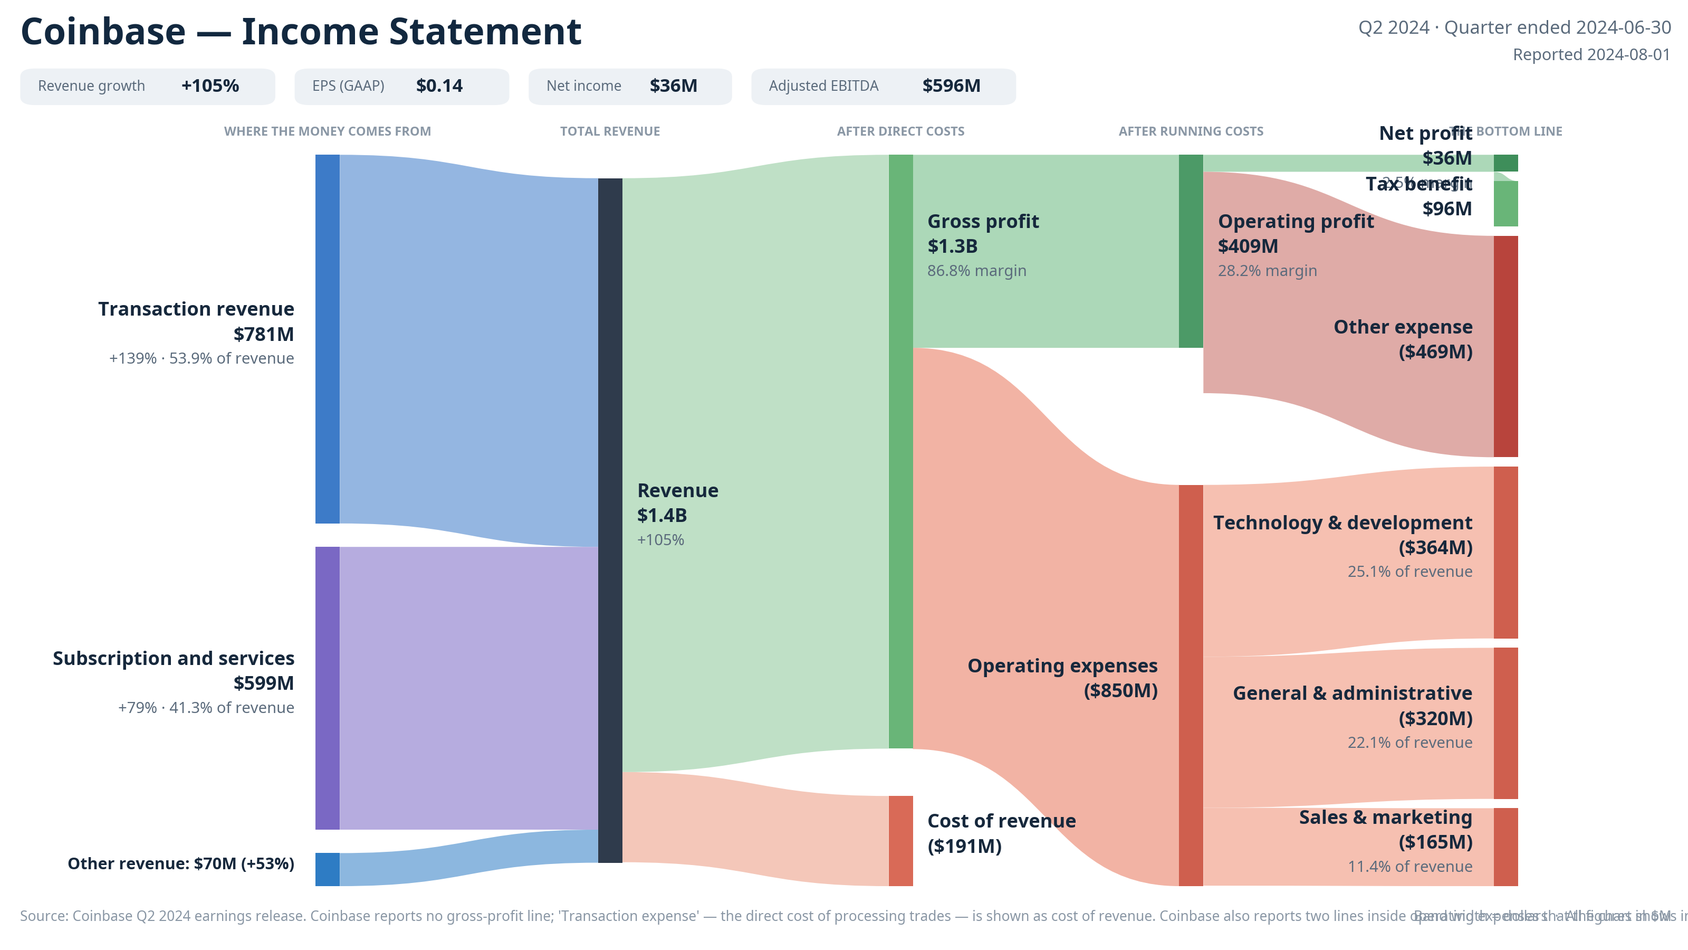
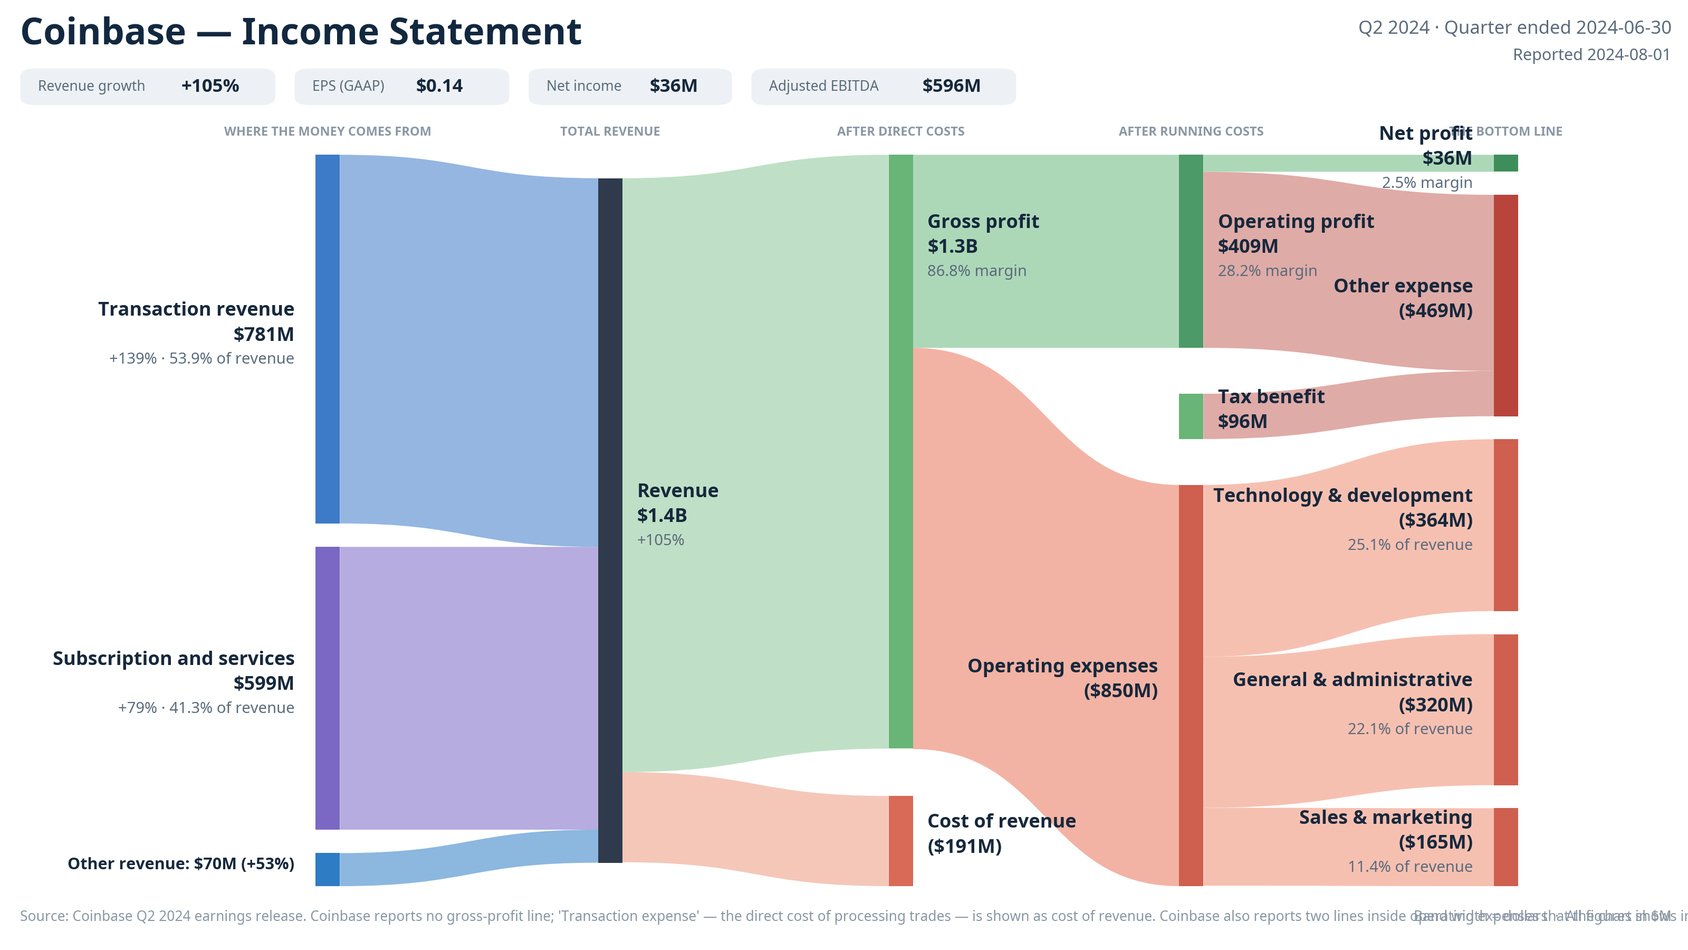
Manual chart repairs: COIN 2024-q2 conserving topology, CORZ 2026-q3 orphan tax node removed
COIN 2024-q2: tax benefit is now a col-3 source that, together with
operating profit, covers the other expense (taxben->otherexp 0.096,
op->otherexp 0.373, op->net 0.036). Net inflows now equal net value
0.036 exactly; canonical builder emitted a negative op->net band for
this shape. chart.png regenerated from the same model.
CORZ 2026-q3: removed the orphan tax node (value -0.107, no links)
and its cols entry; links and conservation unchanged, tax benefit
still represented by its col-3 source node. chart.png regenerated
from the page's existing opex-credit model.
data.json files unchanged.

Changed region(s): [[0.6875, 0.28, 0.9062, 0.84], [0.75, 0.1867, 0.9062, 0.2489], [0.7812, 0.84, 0.8125, 0.8711]]

diff --git a/docs/earnings/corz/2026-q3/index.html b/docs/earnings/corz/2026-q3/index.html
@@ -154,7 +154,7 @@
   </footer>
 </div>
 </div>
-<script>window.REPORT = {"revenueB":1.267,"nodes":{"seg0":{"name":"Colocation revenue","amt":"$215M","value":0.215,"col":0,"color":"#3D7BC8","note":"+1,341% \u00b7 17% of revenue","plain":"Renting high-density data center space to AI customers \u2014 now 93% of revenue. Up from $15.0M a year ago as billing megawatts reached 485 MW.","quarter":"17% of all revenue this quarter."},"seg1":{"name":"Digital asset self-mining","amt":"$12M","value":0.012,"col":0,"color":"#7A68C4","note":"-79% \u00b7 1% of revenue","plain":"Mining Bitcoin for its own account at its remaining mining sites. Down 79% YoY as sites convert to colocation.","quarter":"1% of all revenue this quarter.","compact":true,"compactLabel":"Digital asset self-mining: $12M (-79%)"},"seg2":{"name":"Digital asset hosted mining","amt":"$5M","value":0.005,"col":0,"color":"#2E7CC4","note":"-41% \u00b7 0.4% of revenue","plain":"Hosting other miners' machines. Down 41% YoY.","quarter":"0.4% of all revenue this quarter.","compact":true,"compactLabel":"Digital asset hosted mining: $5M (-41%)"},"seg3":{"name":"Warrant fair-value gain","amt":"$1.0B","value":1.034,"col":0,"color":"#76B900","note":"non-cash \u00b7 81.6% of revenue","plain":"A paper gain: Core Scientific's warrant liabilities fell in value as its share price moved, so accounting rules book a gain. No cash arrived, and it reverses if the share price rises. Shown as a source because it dwarfs everything else this quarter.","quarter":"81.6% of all revenue this quarter."},"rev":{"name":"Revenue","amt":"$1.3B","value":1.267,"col":1,"color":"#2F3B4C","note":"+187%","plain":"All the money Core Scientific took in during the three months \u2014 the top line everything else is carved out of.","quarter":"$1.3B, +187% vs a year ago."},"gross":{"name":"Gross profit","amt":"$1.2B","value":1.158,"col":2,"color":"#69B578","note":"91.4% margin","plain":"What's left after paying the direct cost of delivering what was sold.","quarter":"91.4 cents of every revenue dollar survived this step."},"cost":{"name":"Cost of revenue","amt":"($110M)","value":0.11,"col":2,"color":"#D96A57","note":"","plain":"The direct bill for making and delivering what was sold.","quarter":"$110M \u2014 about 8.6 cents per revenue dollar."},"oxcredit0":{"name":"Gain on fair value of digital assets","amt":"$19M","value":0.019,"col":3,"color":"#69B578","note":"","plain":"A gain as the digital assets Core Scientific holds rose in value \u2014 it reduced operating expenses on paper.","quarter":"$19M credited back \u2014 it reduced operating expenses.","compact":true,"compactLabel":"Gain on fair value of digital assets: $19M credit"},"taxben":{"name":"Tax benefit","amt":"$107M","value":0.107,"col":3,"color":"#69B578","note":"","plain":"The tax line was a benefit this quarter \u2014 it added to the bottom line instead of reducing it.","quarter":"$107M added back by the tax benefit."},"op":{"name":"Operating profit","amt":"$1.1B","value":1.072,"col":3,"color":"#4C9A67","note":"84.6% margin","plain":"What the core business earned after all running costs, before tax and other income.","quarter":"A 84.6% margin."},"opex":{"name":"Operating expenses","amt":"($86M)","value":0.105,"col":3,"color":"#CF5F4E","note":"","plain":"The cost of running and growing the company: research, selling, and the back office.","quarter":"$86M total, split into Selling, general & administrative, Interest & other expense, net, Colocation startup costs, Disposal, remeasurement & advisor costs on the right."},"ox0":{"name":"Selling, general & administrative","amt":"($46M)","value":0.046,"col":4,"color":"#CF5F4E","note":"3.6% of revenue","plain":"Running the company \u2014 the biggest ordinary running cost.","quarter":"$46M \u2014 3.6% of revenue."},"ox1":{"name":"Interest & other expense, net","amt":"($35M)","value":0.035,"col":4,"color":"#CF5F4E","note":"2.8% of revenue","plain":"Interest expense, net, of $35.0M plus $0.04M of other expense. Core Scientific reports this below its operating result; in this adapted layout it is grouped with operating expenses so the operating line equals reported pre-tax income.","quarter":"$35M \u2014 2.8% of revenue."},"ox2":{"name":"Colocation startup costs","amt":"($13M)","value":0.013,"col":4,"color":"#CF5F4E","note":"1% of revenue","plain":"Organizing and starting up new colocation sites as they are built and converted.","quarter":"$13M \u2014 1% of revenue.","compact":true,"compactLabel":"Colocation startup costs: $13M (1% of revenue)"},"ox3":{"name":"Disposal, remeasurement & advisor costs","amt":"($12M)","value":0.012,"col":4,"color":"#CF5F4E","note":"0.9% of revenue","plain":"A $5.3M loss on disposing of equipment, a $1.5M write-down of assets held for sale, and $4.8M of advisor fees, including merger-related advice.","quarter":"$12M \u2014 0.9% of revenue.","compact":true,"compactLabel":"Disposal, remeasurement & advisor costs: $12M (0.9% of revenue)"},"net":{"name":"Net profit","amt":"$1.2B","value":1.178,"col":4,"color":"#3E8E5A","note":"93% margin","plain":"The bottom line \u2014 what Core Scientific actually earned after everything.","quarter":"$1.2B \u2014 about 93 cents of every revenue dollar."},"tax":{"name":"Tax","amt":"$107M","value":-0.107,"col":4,"color":"#B8443C","note":"","plain":"Income tax on the quarter's profit.","quarter":"($107M) \u2014 roughly a -9.9% tax rate on pre-tax profit."}},"cols":[["seg0","seg1","seg2","seg3"],["rev"],["gross","cost"],["oxcredit0","taxben","op","opex"],["net","tax","ox0","ox1","ox2","ox3"]],"links":[{"s":"seg0","d":"rev","v":0.215,"c":"#94b6e1","amt":"$215M"},{"s":"seg1","d":"rev","v":0.012,"c":"#b6acdf","amt":"$12M"},{"s":"seg2","d":"rev","v":0.005,"c":"#8cb7df","amt":"$5M"},{"s":"seg3","d":"rev","v":1.034,"c":"#b4d873","amt":"$1.0B"},{"s":"rev","d":"gross","v":1.158,"c":"#BFE0C6","amt":"$1.2B"},{"s":"rev","d":"cost","v":0.11,"c":"#F4C7B9","amt":"$110M"},{"s":"gross","d":"op","v":1.072,"c":"#ACD8B8","amt":"$1.1B"},{"s":"gross","d":"opex","v":0.086,"c":"#F2B3A4","amt":"$86M"},{"s":"op","d":"net","v":1.072,"c":"#ACD8B8","amt":"$1.1B"},{"s":"taxben","d":"net","v":0.107,"c":"#ACD8B8","amt":"$107M"},{"s":"oxcredit0","d":"opex","v":0.019,"c":"#ACD8B8","amt":"$19M"},{"s":"opex","d":"ox0","v":0.046,"c":"#F6C0B1","amt":"$46M"},{"s":"opex","d":"ox1","v":0.035,"c":"#F6C0B1","amt":"$35M"},{"s":"opex","d":"ox2","v":0.013,"c":"#F6C0B1","amt":"$13M"},{"s":"opex","d":"ox3","v":0.012,"c":"#F6C0B1","amt":"$12M"}],"captions":["WHERE THE MONEY COMES FROM","TOTAL REVENUE","AFTER DIRECT COSTS","AFTER RUNNING COSTS","THE BOTTOM LINE"]};</script>
+<script>window.REPORT = {"revenueB":1.267,"nodes":{"seg0":{"name":"Colocation revenue","amt":"$215M","value":0.215,"col":0,"color":"#3D7BC8","note":"+1,341% \u00b7 17% of revenue","plain":"Renting high-density data center space to AI customers \u2014 now 93% of revenue. Up from $15.0M a year ago as billing megawatts reached 485 MW.","quarter":"17% of all revenue this quarter."},"seg1":{"name":"Digital asset self-mining","amt":"$12M","value":0.012,"col":0,"color":"#7A68C4","note":"-79% \u00b7 1% of revenue","plain":"Mining Bitcoin for its own account at its remaining mining sites. Down 79% YoY as sites convert to colocation.","quarter":"1% of all revenue this quarter.","compact":true,"compactLabel":"Digital asset self-mining: $12M (-79%)"},"seg2":{"name":"Digital asset hosted mining","amt":"$5M","value":0.005,"col":0,"color":"#2E7CC4","note":"-41% \u00b7 0.4% of revenue","plain":"Hosting other miners' machines. Down 41% YoY.","quarter":"0.4% of all revenue this quarter.","compact":true,"compactLabel":"Digital asset hosted mining: $5M (-41%)"},"seg3":{"name":"Warrant fair-value gain","amt":"$1.0B","value":1.034,"col":0,"color":"#76B900","note":"non-cash \u00b7 81.6% of revenue","plain":"A paper gain: Core Scientific's warrant liabilities fell in value as its share price moved, so accounting rules book a gain. No cash arrived, and it reverses if the share price rises. Shown as a source because it dwarfs everything else this quarter.","quarter":"81.6% of all revenue this quarter."},"rev":{"name":"Revenue","amt":"$1.3B","value":1.267,"col":1,"color":"#2F3B4C","note":"+187%","plain":"All the money Core Scientific took in during the three months \u2014 the top line everything else is carved out of.","quarter":"$1.3B, +187% vs a year ago."},"gross":{"name":"Gross profit","amt":"$1.2B","value":1.158,"col":2,"color":"#69B578","note":"91.4% margin","plain":"What's left after paying the direct cost of delivering what was sold.","quarter":"91.4 cents of every revenue dollar survived this step."},"cost":{"name":"Cost of revenue","amt":"($110M)","value":0.11,"col":2,"color":"#D96A57","note":"","plain":"The direct bill for making and delivering what was sold.","quarter":"$110M \u2014 about 8.6 cents per revenue dollar."},"oxcredit0":{"name":"Gain on fair value of digital assets","amt":"$19M","value":0.019,"col":3,"color":"#69B578","note":"","plain":"A gain as the digital assets Core Scientific holds rose in value \u2014 it reduced operating expenses on paper.","quarter":"$19M credited back \u2014 it reduced operating expenses.","compact":true,"compactLabel":"Gain on fair value of digital assets: $19M credit"},"taxben":{"name":"Tax benefit","amt":"$107M","value":0.107,"col":3,"color":"#69B578","note":"","plain":"The tax line was a benefit this quarter \u2014 it added to the bottom line instead of reducing it.","quarter":"$107M added back by the tax benefit."},"op":{"name":"Operating profit","amt":"$1.1B","value":1.072,"col":3,"color":"#4C9A67","note":"84.6% margin","plain":"What the core business earned after all running costs, before tax and other income.","quarter":"A 84.6% margin."},"opex":{"name":"Operating expenses","amt":"($86M)","value":0.105,"col":3,"color":"#CF5F4E","note":"","plain":"The cost of running and growing the company: research, selling, and the back office.","quarter":"$86M total, split into Selling, general & administrative, Interest & other expense, net, Colocation startup costs, Disposal, remeasurement & advisor costs on the right."},"ox0":{"name":"Selling, general & administrative","amt":"($46M)","value":0.046,"col":4,"color":"#CF5F4E","note":"3.6% of revenue","plain":"Running the company \u2014 the biggest ordinary running cost.","quarter":"$46M \u2014 3.6% of revenue."},"ox1":{"name":"Interest & other expense, net","amt":"($35M)","value":0.035,"col":4,"color":"#CF5F4E","note":"2.8% of revenue","plain":"Interest expense, net, of $35.0M plus $0.04M of other expense. Core Scientific reports this below its operating result; in this adapted layout it is grouped with operating expenses so the operating line equals reported pre-tax income.","quarter":"$35M \u2014 2.8% of revenue."},"ox2":{"name":"Colocation startup costs","amt":"($13M)","value":0.013,"col":4,"color":"#CF5F4E","note":"1% of revenue","plain":"Organizing and starting up new colocation sites as they are built and converted.","quarter":"$13M \u2014 1% of revenue.","compact":true,"compactLabel":"Colocation startup costs: $13M (1% of revenue)"},"ox3":{"name":"Disposal, remeasurement & advisor costs","amt":"($12M)","value":0.012,"col":4,"color":"#CF5F4E","note":"0.9% of revenue","plain":"A $5.3M loss on disposing of equipment, a $1.5M write-down of assets held for sale, and $4.8M of advisor fees, including merger-related advice.","quarter":"$12M \u2014 0.9% of revenue.","compact":true,"compactLabel":"Disposal, remeasurement & advisor costs: $12M (0.9% of revenue)"},"net":{"name":"Net profit","amt":"$1.2B","value":1.178,"col":4,"color":"#3E8E5A","note":"93% margin","plain":"The bottom line \u2014 what Core Scientific actually earned after everything.","quarter":"$1.2B \u2014 about 93 cents of every revenue dollar."}},"cols":[["seg0","seg1","seg2","seg3"],["rev"],["gross","cost"],["oxcredit0","taxben","op","opex"],["net","ox0","ox1","ox2","ox3"]],"links":[{"s":"seg0","d":"rev","v":0.215,"c":"#94b6e1","amt":"$215M"},{"s":"seg1","d":"rev","v":0.012,"c":"#b6acdf","amt":"$12M"},{"s":"seg2","d":"rev","v":0.005,"c":"#8cb7df","amt":"$5M"},{"s":"seg3","d":"rev","v":1.034,"c":"#b4d873","amt":"$1.0B"},{"s":"rev","d":"gross","v":1.158,"c":"#BFE0C6","amt":"$1.2B"},{"s":"rev","d":"cost","v":0.11,"c":"#F4C7B9","amt":"$110M"},{"s":"gross","d":"op","v":1.072,"c":"#ACD8B8","amt":"$1.1B"},{"s":"gross","d":"opex","v":0.086,"c":"#F2B3A4","amt":"$86M"},{"s":"op","d":"net","v":1.072,"c":"#ACD8B8","amt":"$1.1B"},{"s":"taxben","d":"net","v":0.107,"c":"#ACD8B8","amt":"$107M"},{"s":"oxcredit0","d":"opex","v":0.019,"c":"#ACD8B8","amt":"$19M"},{"s":"opex","d":"ox0","v":0.046,"c":"#F6C0B1","amt":"$46M"},{"s":"opex","d":"ox1","v":0.035,"c":"#F6C0B1","amt":"$35M"},{"s":"opex","d":"ox2","v":0.013,"c":"#F6C0B1","amt":"$13M"},{"s":"opex","d":"ox3","v":0.012,"c":"#F6C0B1","amt":"$12M"}],"captions":["WHERE THE MONEY COMES FROM","TOTAL REVENUE","AFTER DIRECT COSTS","AFTER RUNNING COSTS","THE BOTTOM LINE"]};</script>
 <script src="../../../assets/chart.js"></script>
 </body>
 </html>

diff --git a/docs/earnings/coin/2024-q2/index.html b/docs/earnings/coin/2024-q2/index.html
@@ -211,7 +211,7 @@
   </footer>
 </div>
 </div>
-<script>window.REPORT = {"revenueB":1.45,"nodes":{"seg0":{"name":"Transaction revenue","amt":"$781M","value":0.781,"col":0,"color":"#3D7BC8","note":"+139% \u00b7 53.9% of revenue","plain":"Fees from crypto trading \u2014 consumer $665M, institutional $64M, other $53M. Trading volume was $226B, down 28% from Q1 as volatility eased, but revenue more than doubled from a year ago.","quarter":"53.9% of all revenue this quarter."},"seg1":{"name":"Subscription and services","amt":"$599M","value":0.599,"col":0,"color":"#7A68C4","note":"+79% \u00b7 41.3% of revenue","plain":"Steadier income: stablecoin revenue $240M, blockchain rewards $185M, interest and finance fees $69M, custodial fees $35M, and other services $70M.","quarter":"41.3% of all revenue this quarter."},"seg2":{"name":"Other revenue","amt":"$70M","value":0.07,"col":0,"color":"#2E7CC4","note":"+53% \u00b7 4.8% of revenue","plain":"Interest earned on Coinbase's own corporate cash.","quarter":"4.8% of all revenue this quarter.","compact":true,"compactLabel":"Other revenue: $70M (+53%)"},"rev":{"name":"Revenue","amt":"$1.4B","value":1.45,"col":1,"color":"#2F3B4C","note":"+105%","plain":"All the money Coinbase took in during the three months \u2014 the top line everything else is carved out of.","quarter":"$1.4B, +105% vs a year ago."},"gross":{"name":"Gross profit","amt":"$1.3B","value":1.258,"col":2,"color":"#69B578","note":"86.8% margin","plain":"What's left after paying the direct cost of delivering what was sold.","quarter":"86.8 cents of every revenue dollar survived this step."},"cost":{"name":"Cost of revenue","amt":"($191M)","value":0.191,"col":2,"color":"#D96A57","note":"","plain":"The direct bill for making and delivering what was sold.","quarter":"$191M \u2014 about 13.2 cents per revenue dollar."},"op":{"name":"Operating profit","amt":"$409M","value":0.409,"col":3,"color":"#4C9A67","note":"28.2% margin","plain":"What the core business earned after all running costs, before tax and other income.","quarter":"A 28.2% margin."},"opex":{"name":"Operating expenses","amt":"($850M)","value":0.85,"col":3,"color":"#CF5F4E","note":"","plain":"The cost of running and growing the company: research, selling, and the back office.","quarter":"$850M total, split into Technology & development, General & administrative, Sales & marketing on the right."},"otherexp":{"name":"Other expense","amt":"($469M)","value":0.469,"col":4,"color":"#B8443C","note":"","plain":"A $319M loss on crypto Coinbase holds as an investment, $64M of other expense (losses on crypto loan receivables, other financial instruments and strategic investments), $21M of interest expense, and the $65M of operating losses moved here from operating expenses (a $31M loss on crypto held for operations and $34M of other operating expense \u2014 see footer): a net $469M expense.","quarter":"$469M taken out of profit."},"ox0":{"name":"Technology & development","amt":"($364M)","value":0.364,"col":4,"color":"#CF5F4E","note":"25.1% of revenue","plain":"Building the platform \u2014 engineering and product.","quarter":"$364M \u2014 25.1% of revenue."},"ox1":{"name":"General & administrative","amt":"($320M)","value":0.32,"col":4,"color":"#CF5F4E","note":"22.1% of revenue","plain":"Running the company \u2014 legal, compliance and the back office.","quarter":"$320M \u2014 22.1% of revenue."},"ox2":{"name":"Sales & marketing","amt":"($165M)","value":0.165,"col":4,"color":"#CF5F4E","note":"11.4% of revenue","plain":"Advertising, USDC rewards and winning customers.","quarter":"$165M \u2014 11.4% of revenue."},"net":{"name":"Net profit","amt":"$36M","value":0.036,"col":4,"color":"#3E8E5A","note":"2.5% margin","plain":"The bottom line \u2014 what Coinbase actually earned after everything.","quarter":"$36M \u2014 about 2.5 cents of every revenue dollar."},"taxben":{"name":"Tax benefit","amt":"$96M","value":0.096,"col":4,"color":"#69B578","note":"","plain":"The tax line added money back instead of taking it \u2014 a $96M benefit this quarter, drawn here as its own source into net profit.","quarter":"$96M added to the bottom line."}},"cols":[["seg0","seg1","seg2"],["rev"],["gross","cost"],["op","opex"],["net","taxben","otherexp","ox0","ox1","ox2"]],"links":[{"s":"seg0","d":"rev","v":0.781,"c":"#94b6e1","amt":"$781M"},{"s":"seg1","d":"rev","v":0.599,"c":"#b6acdf","amt":"$599M"},{"s":"seg2","d":"rev","v":0.07,"c":"#8cb7df","amt":"$70M"},{"s":"rev","d":"gross","v":1.258,"c":"#BFE0C6","amt":"$1.3B"},{"s":"rev","d":"cost","v":0.191,"c":"#F4C7B9","amt":"$191M"},{"s":"gross","d":"op","v":0.409,"c":"#ACD8B8","amt":"$409M"},{"s":"gross","d":"opex","v":0.85,"c":"#F2B3A4","amt":"$850M"},{"s":"op","d":"net","v":0.036,"c":"#ACD8B8","amt":"$36M"},{"s":"op","d":"otherexp","v":0.469,"c":"#dfaba7","amt":"$469M"},{"s":"taxben","d":"net","v":0.096,"c":"#ACD8B8","amt":"$96M"},{"s":"opex","d":"ox0","v":0.364,"c":"#F6C0B1","amt":"$364M"},{"s":"opex","d":"ox1","v":0.32,"c":"#F6C0B1","amt":"$320M"},{"s":"opex","d":"ox2","v":0.165,"c":"#F6C0B1","amt":"$165M"}],"captions":["WHERE THE MONEY COMES FROM","TOTAL REVENUE","AFTER DIRECT COSTS","AFTER RUNNING COSTS","THE BOTTOM LINE"]};</script>
+<script>window.REPORT = {"revenueB":1.45,"nodes":{"seg0":{"name":"Transaction revenue","amt":"$781M","value":0.781,"col":0,"color":"#3D7BC8","note":"+139% \u00b7 53.9% of revenue","plain":"Fees from crypto trading \u2014 consumer $665M, institutional $64M, other $53M. Trading volume was $226B, down 28% from Q1 as volatility eased, but revenue more than doubled from a year ago.","quarter":"53.9% of all revenue this quarter."},"seg1":{"name":"Subscription and services","amt":"$599M","value":0.599,"col":0,"color":"#7A68C4","note":"+79% \u00b7 41.3% of revenue","plain":"Steadier income: stablecoin revenue $240M, blockchain rewards $185M, interest and finance fees $69M, custodial fees $35M, and other services $70M.","quarter":"41.3% of all revenue this quarter."},"seg2":{"name":"Other revenue","amt":"$70M","value":0.07,"col":0,"color":"#2E7CC4","note":"+53% \u00b7 4.8% of revenue","plain":"Interest earned on Coinbase's own corporate cash.","quarter":"4.8% of all revenue this quarter.","compact":true,"compactLabel":"Other revenue: $70M (+53%)"},"rev":{"name":"Revenue","amt":"$1.4B","value":1.45,"col":1,"color":"#2F3B4C","note":"+105%","plain":"All the money Coinbase took in during the three months \u2014 the top line everything else is carved out of.","quarter":"$1.4B, +105% vs a year ago."},"gross":{"name":"Gross profit","amt":"$1.3B","value":1.258,"col":2,"color":"#69B578","note":"86.8% margin","plain":"What's left after paying the direct cost of delivering what was sold.","quarter":"86.8 cents of every revenue dollar survived this step."},"cost":{"name":"Cost of revenue","amt":"($191M)","value":0.191,"col":2,"color":"#D96A57","note":"","plain":"The direct bill for making and delivering what was sold.","quarter":"$191M \u2014 about 13.2 cents per revenue dollar."},"op":{"name":"Operating profit","amt":"$409M","value":0.409,"col":3,"color":"#4C9A67","note":"28.2% margin","plain":"What the core business earned after all running costs, before tax and other income.","quarter":"A 28.2% margin."},"opex":{"name":"Operating expenses","amt":"($850M)","value":0.85,"col":3,"color":"#CF5F4E","note":"","plain":"The cost of running and growing the company: research, selling, and the back office.","quarter":"$850M total, split into Technology & development, General & administrative, Sales & marketing on the right."},"otherexp":{"name":"Other expense","amt":"($469M)","value":0.469,"col":4,"color":"#B8443C","note":"","plain":"A $319M loss on crypto Coinbase holds as an investment, $64M of other expense (losses on crypto loan receivables, other financial instruments and strategic investments), $21M of interest expense, and the $65M of operating losses moved here from operating expenses (a $31M loss on crypto held for operations and $34M of other operating expense \u2014 see footer): a net $469M expense.","quarter":"$469M taken out of profit."},"ox0":{"name":"Technology & development","amt":"($364M)","value":0.364,"col":4,"color":"#CF5F4E","note":"25.1% of revenue","plain":"Building the platform \u2014 engineering and product.","quarter":"$364M \u2014 25.1% of revenue."},"ox1":{"name":"General & administrative","amt":"($320M)","value":0.32,"col":4,"color":"#CF5F4E","note":"22.1% of revenue","plain":"Running the company \u2014 legal, compliance and the back office.","quarter":"$320M \u2014 22.1% of revenue."},"ox2":{"name":"Sales & marketing","amt":"($165M)","value":0.165,"col":4,"color":"#CF5F4E","note":"11.4% of revenue","plain":"Advertising, USDC rewards and winning customers.","quarter":"$165M \u2014 11.4% of revenue."},"net":{"name":"Net profit","amt":"$36M","value":0.036,"col":4,"color":"#3E8E5A","note":"2.5% margin","plain":"The bottom line \u2014 what Coinbase actually earned after everything.","quarter":"$36M \u2014 about 2.5 cents of every revenue dollar."},"taxben":{"name":"Tax benefit","amt":"$96M","value":0.096,"col":3,"color":"#69B578","note":"","plain":"The tax line added money back instead of taking it \u2014 a $96M benefit this quarter, drawn here as its own source: together with operating profit it covers the $469M other expense, leaving the $36M net profit.","quarter":"$96M added back \u2014 it helped cover the $469M other expense."}},"cols":[["seg0","seg1","seg2"],["rev"],["gross","cost"],["op","taxben","opex"],["net","otherexp","ox0","ox1","ox2"]],"links":[{"s":"seg0","d":"rev","v":0.781,"c":"#94b6e1","amt":"$781M"},{"s":"seg1","d":"rev","v":0.599,"c":"#b6acdf","amt":"$599M"},{"s":"seg2","d":"rev","v":0.07,"c":"#8cb7df","amt":"$70M"},{"s":"rev","d":"gross","v":1.258,"c":"#BFE0C6","amt":"$1.3B"},{"s":"rev","d":"cost","v":0.191,"c":"#F4C7B9","amt":"$191M"},{"s":"gross","d":"op","v":0.409,"c":"#ACD8B8","amt":"$409M"},{"s":"gross","d":"opex","v":0.85,"c":"#F2B3A4","amt":"$850M"},{"s":"op","d":"net","v":0.036,"c":"#ACD8B8","amt":"$36M"},{"s":"op","d":"otherexp","v":0.373,"c":"#dfaba7","amt":"$373M"},{"s":"taxben","d":"otherexp","v":0.096,"c":"#dfaba7","amt":"$96M"},{"s":"opex","d":"ox0","v":0.364,"c":"#F6C0B1","amt":"$364M"},{"s":"opex","d":"ox1","v":0.32,"c":"#F6C0B1","amt":"$320M"},{"s":"opex","d":"ox2","v":0.165,"c":"#F6C0B1","amt":"$165M"}],"captions":["WHERE THE MONEY COMES FROM","TOTAL REVENUE","AFTER DIRECT COSTS","AFTER RUNNING COSTS","THE BOTTOM LINE"]};</script>
 <script src="../../../assets/chart.js"></script>
 </body>
 </html>
